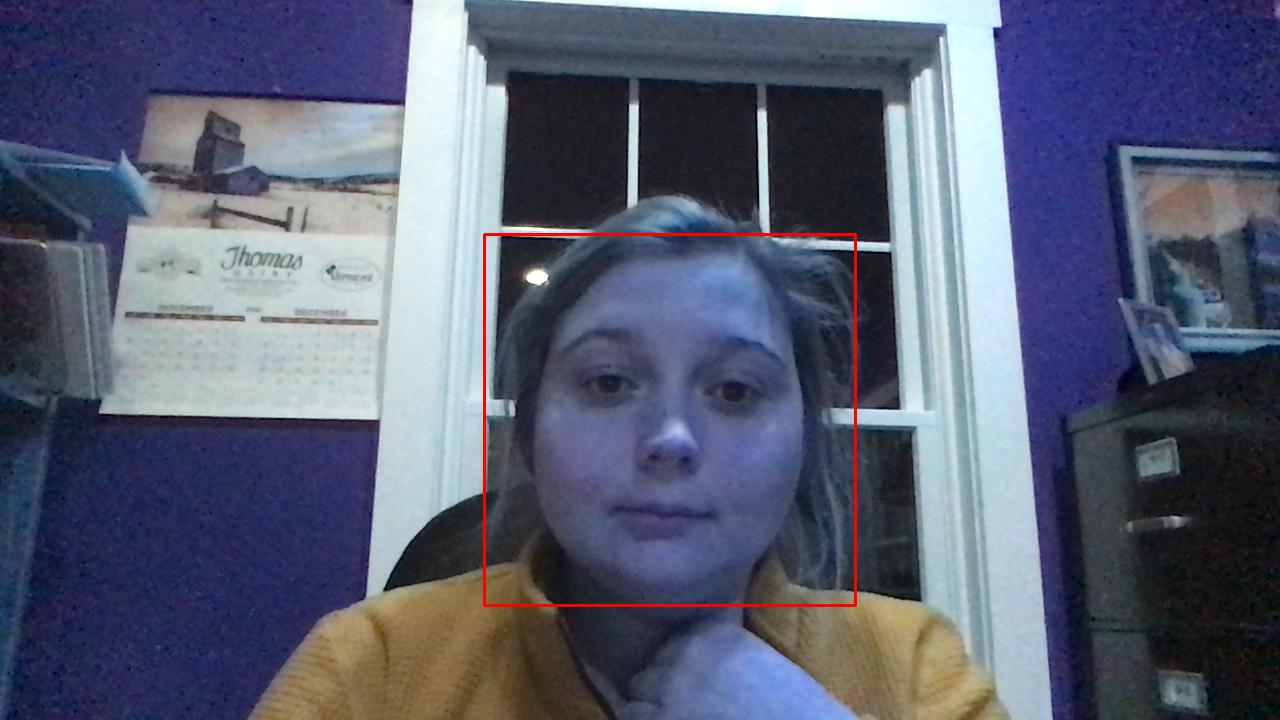
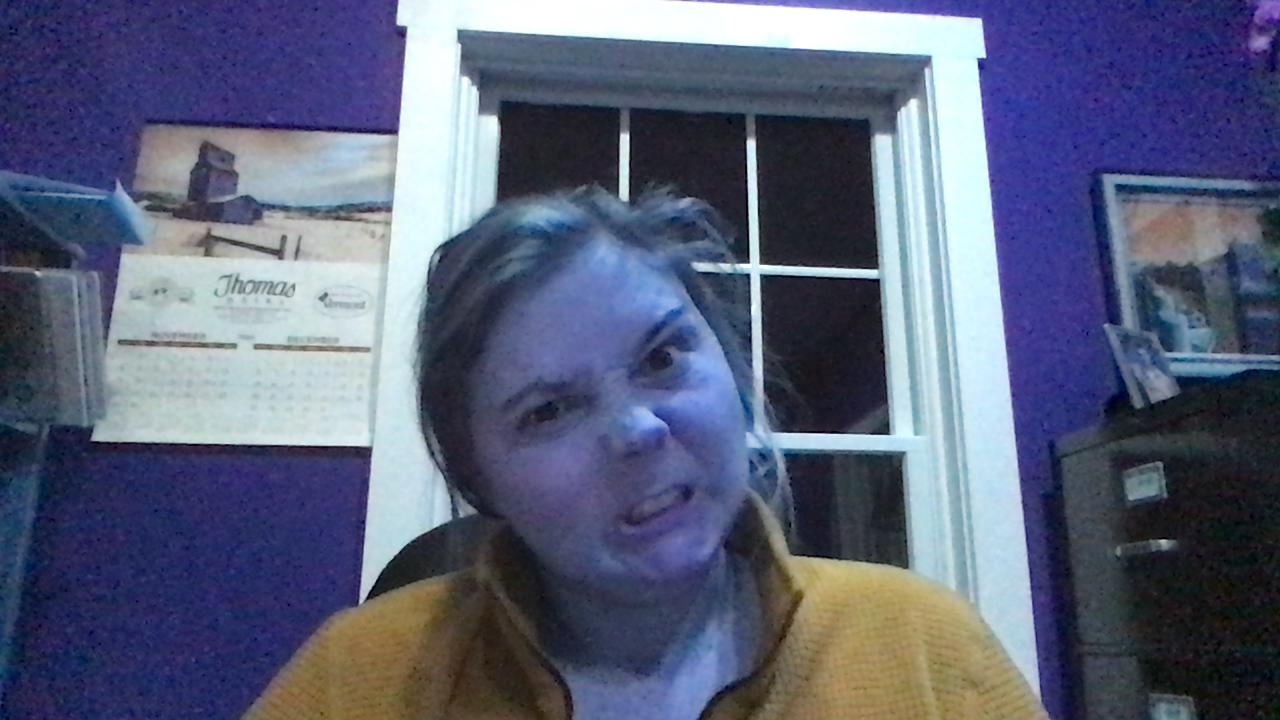
add pretrained version

diff --git a/ears_pretrained.py b/ears_pretrained.py
@@ -1,5 +1,5 @@
 #!/usr/bin/env python
-# Script for EARS system with custom emotion classifier
+# Script for EARS system with pre-trained emotion classifier
 
 import time
 import datetime
@@ -44,7 +44,7 @@ BATCH_SIZE = 16
 FACE_CLASSIFIER = cv2.CascadeClassifier('haarcascade_frontalface_default.xml')
 
 # set emotion labels
-CLASS_LABELS = {0: 'angry', 1: 'happy', 2: 'sad', 3: 'neutral'} 
+CLASS_LABELS = {0: 'mad', 1: 'NA', 2: 'NA', 3: 'happy', 4: 'sad', 5: 'NA', 6: 'neutral'}
 
 # loading Dlib predictor (http://dlib.net/files/shape_predictor_68_face_landmarks.dat.bz2") and preparing arrays
 print( "preparing")
@@ -95,7 +95,7 @@ class EARS(object):
 		self.hasSpoken = False #keep track of whether or not user has spoken
 		self.runningSilence = 0 #keep track of current length of silence
 		self.keepGoing = True #end script when False
-		self.classifier = tf.keras.models.load_model('./emotion_classifier_models/ears_model_full_model_big_dataset_12-08-2020-15-30.hdf5') #last from drive
+		self.classifier = tf.keras.models.load_model('./emotion_classifier_models/_mini_xception.100_0.65.hdf5') #from: https://github.com/kumarnikhil936/Facial-Emotion-Recognition
 		self.cap = cv2.VideoCapture(0)
 
 	def run(self):
@@ -219,6 +219,10 @@ class EARS(object):
 			frame_landmarks = np.expand_dims(frame_landmarks, axis=0)
 			# make a prediction on the ROI and landmarks, then lookup the class
 			preds = self.classifier.predict([roi, frame_landmarks], batch_size=BATCH_SIZE)
+			#zero out emotions our system doesn't have
+			preds[0][1] = 0 #disgust
+			preds[0][2] = 0 #fear
+			preds[0][5] = 0 #suprise
 			preds = np.round(preds[0], 3)
 			label = CLASS_LABELS[preds.argmax()]
 			self.currentEmotion = label
